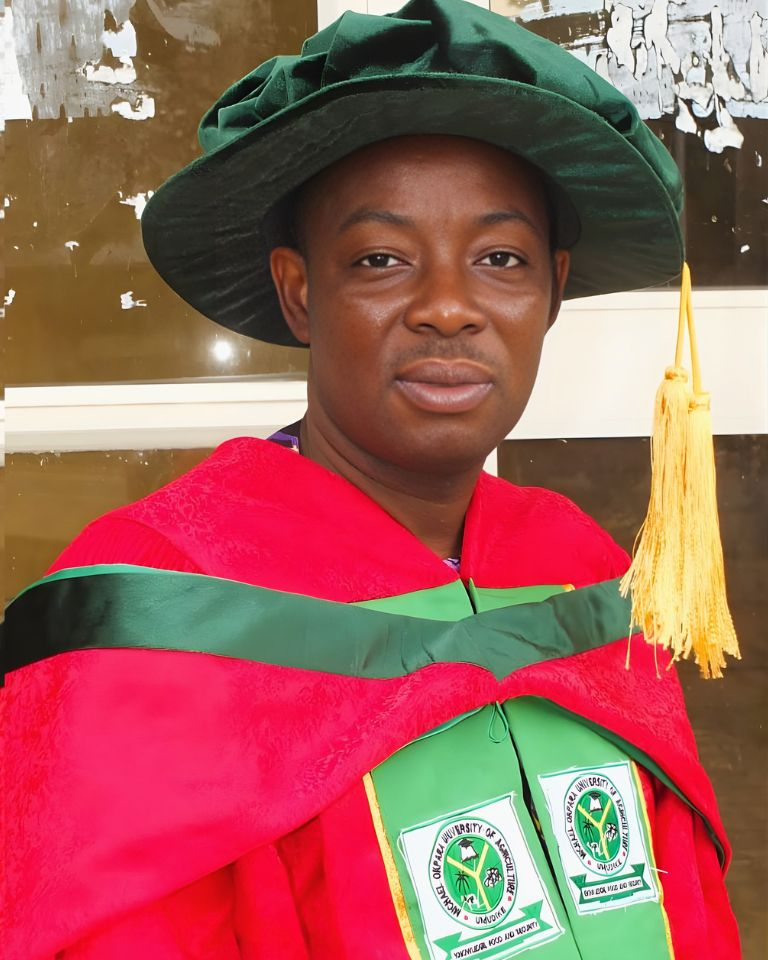
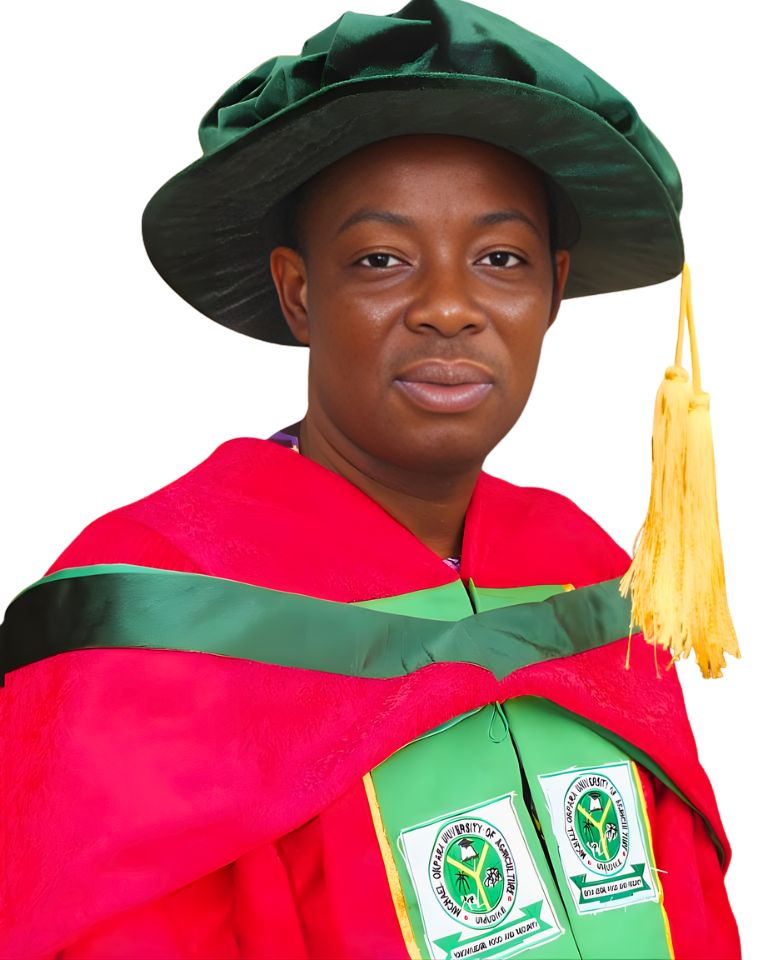
Added more information to the gallery page

diff --git a/speaker.html b/speaker.html
@@ -372,7 +372,7 @@
                             <h3>Dr. Charles Ukauwa</h3>
                             <h4>Chairman, Local Organizing Committee - SEMD 2026 | Abia State Cordinator, CSONETMADE</h4>
                             <p>
-                                Leading the strategic direction and coordination of the South East Migration Dialogue. Responsible for overall planning, stakeholder engagement, and ensuring the successful implementation of dialogue objectives in alignment with the 2025 National Migration Policy. Dr. Ukuwa brings extensive experience in civil society governance and has been pivotal in securing high-level political buy-in for the dialogue.
+                                Leading the strategic direction and coordination of the South East Migration Dialogue. Responsible for overall planning, stakeholder engagement, and ensuring the successful implementation of dialogue objectives in alignment with the 2025 National Migration Policy. Dr. Ukauwa brings extensive experience in civil society governance and has been pivotal in securing high-level political buy-in for the dialogue.
                             </p>
                             <div class="social-links">
                                 <a href="#" class="twitter"><i class="fa fa-twitter"></i></a>